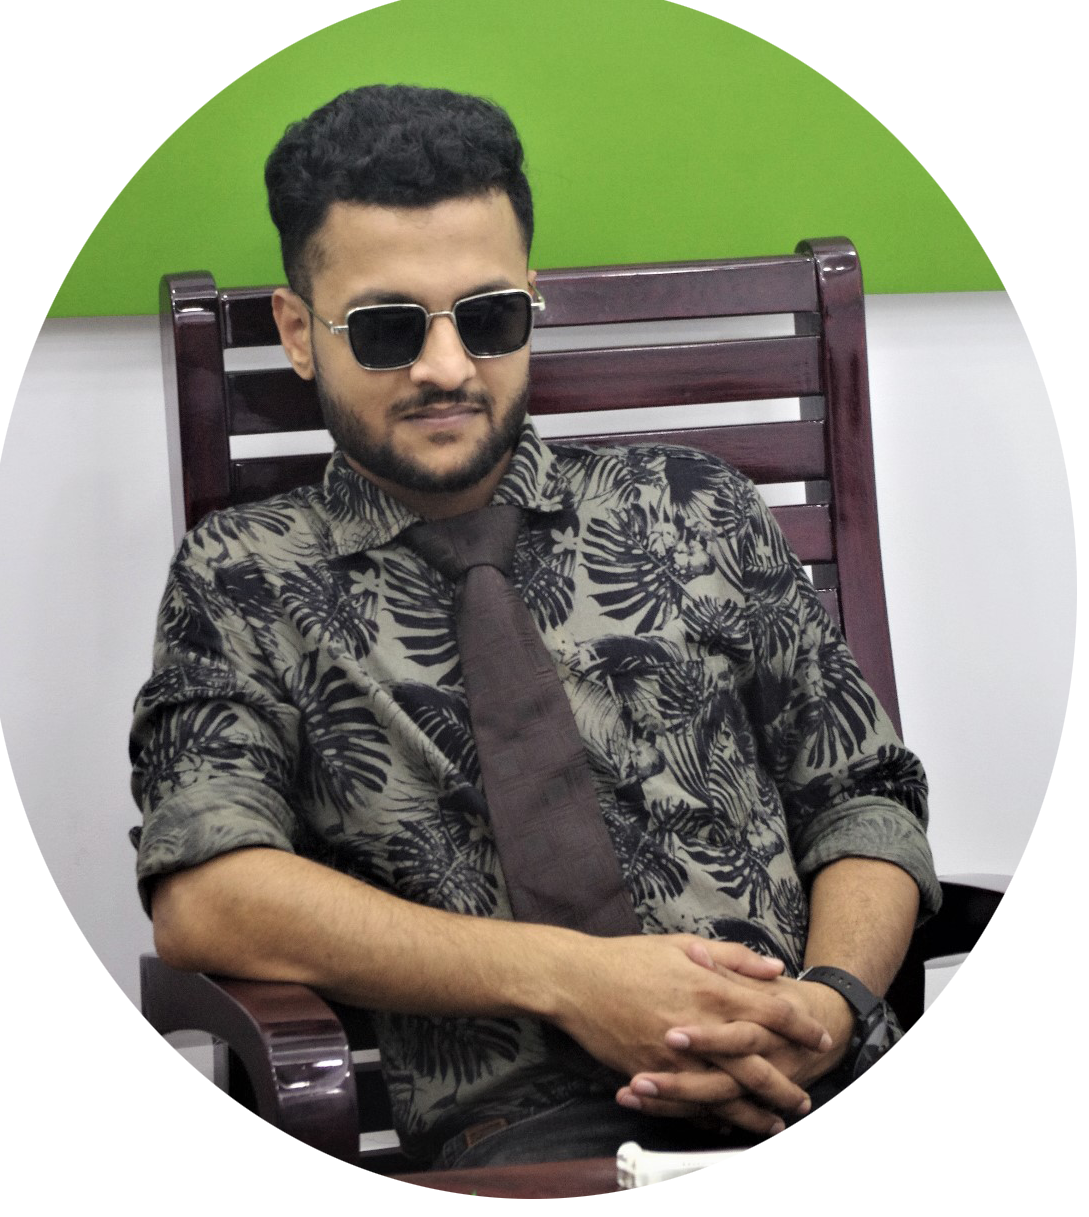
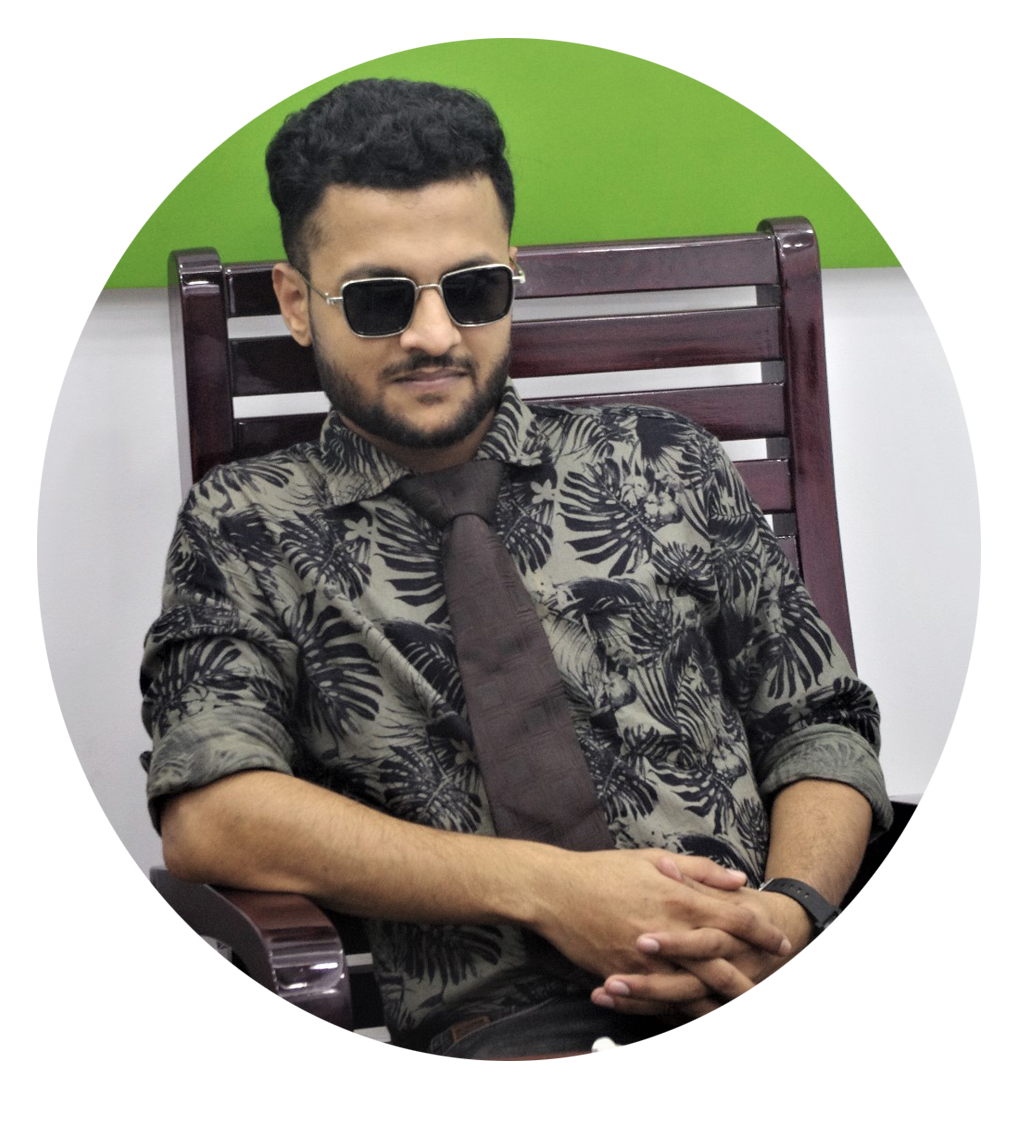
learned github

diff --git a/Assigment-2.html b/Assigment-2.html
@@ -25,7 +25,7 @@
 <!--first section start-->
 <section class="flex">
         <div class="b_content">
-                    <h1 class="name">HELLO,I'M <br/> <span class="hight_light">ROB DAVIDSON</span></h1>
+                    <h1 class="name">HELLO,I'M <br/> <span class="hight_light">Md. Morsheduzzaman (SHUVO) </span></h1>
                     <p>A full stack allaround designer that placerat <br/> in massa consectetur.</p>
                     <button>Hire Me</button>
         </div>
@@ -45,7 +45,7 @@
     <div class="b_content">
                 <h1 class="name">ABOUT</h1>
                 <p>Lorem, ipsum dolor sit amet consectetur adipisicing elit. Fuga facere, aliquid <br/> deserunt blanditiis nam veritatis nihil ipsum illum alias architecto! Lorem, <br/> ipsum dolor sit amet consectetur adipisicing elit. Fuga facere, aliquid <br/> deserunt blanditiis nam veritatis nihil ipsum illum alias architecto!</p>
-                <button><i class="fas fa-download"></i> Download CV</button>
+                <button> <a target="_blank" href=" https://drive.google.com/file/d/13QuZ8HWlF6N-mxEfmom1bAgdFKXcugW2/view?usp=sharing">   <i class="fas fa-download"></i> Download CV   </a> </button>
     </div>
 </section>
 <!--second section end -->
@@ -93,9 +93,12 @@
         <h1>hello@design.com </h1> 
     </div>
     <div class="f-image">
-        <img src="icons/image 6.png" alt="">
+       <a target="_blank" href="https://www.facebook.com/profile.php?id=100005243626199"> <img src="icons/facebook1.png" alt=""> </a>
+       <a target="_blank" href="https://www.instagram.com/shuvo_704/"> <img src="icons/image 7.png" alt=""></a>
+       <img src="icons/image 6.png" alt="">
         <img src="icons/Group 33059.png" alt="">
-        <img src="icons/image 7.png" alt="">
+       
+        
     </div>
 </footer>
 

diff --git a/Assigment-2.css b/Assigment-2.css
@@ -71,6 +71,7 @@ header{
 }
 .b_content img{
     width: 100%;
+    margin-top: 150px;
 }
 /*first section end */
 
